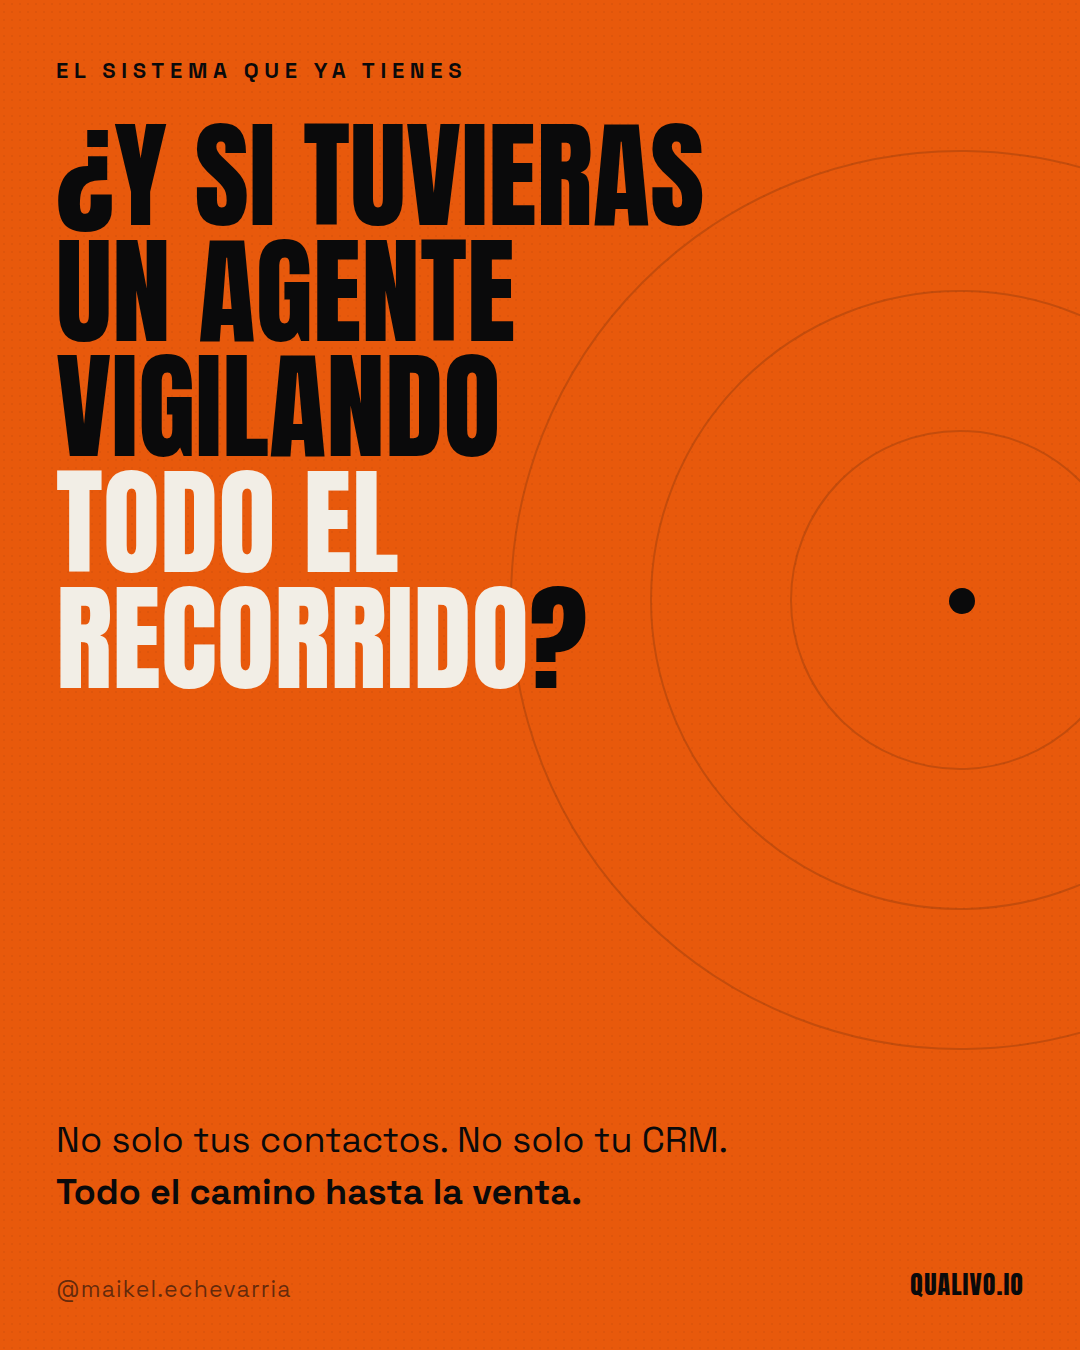
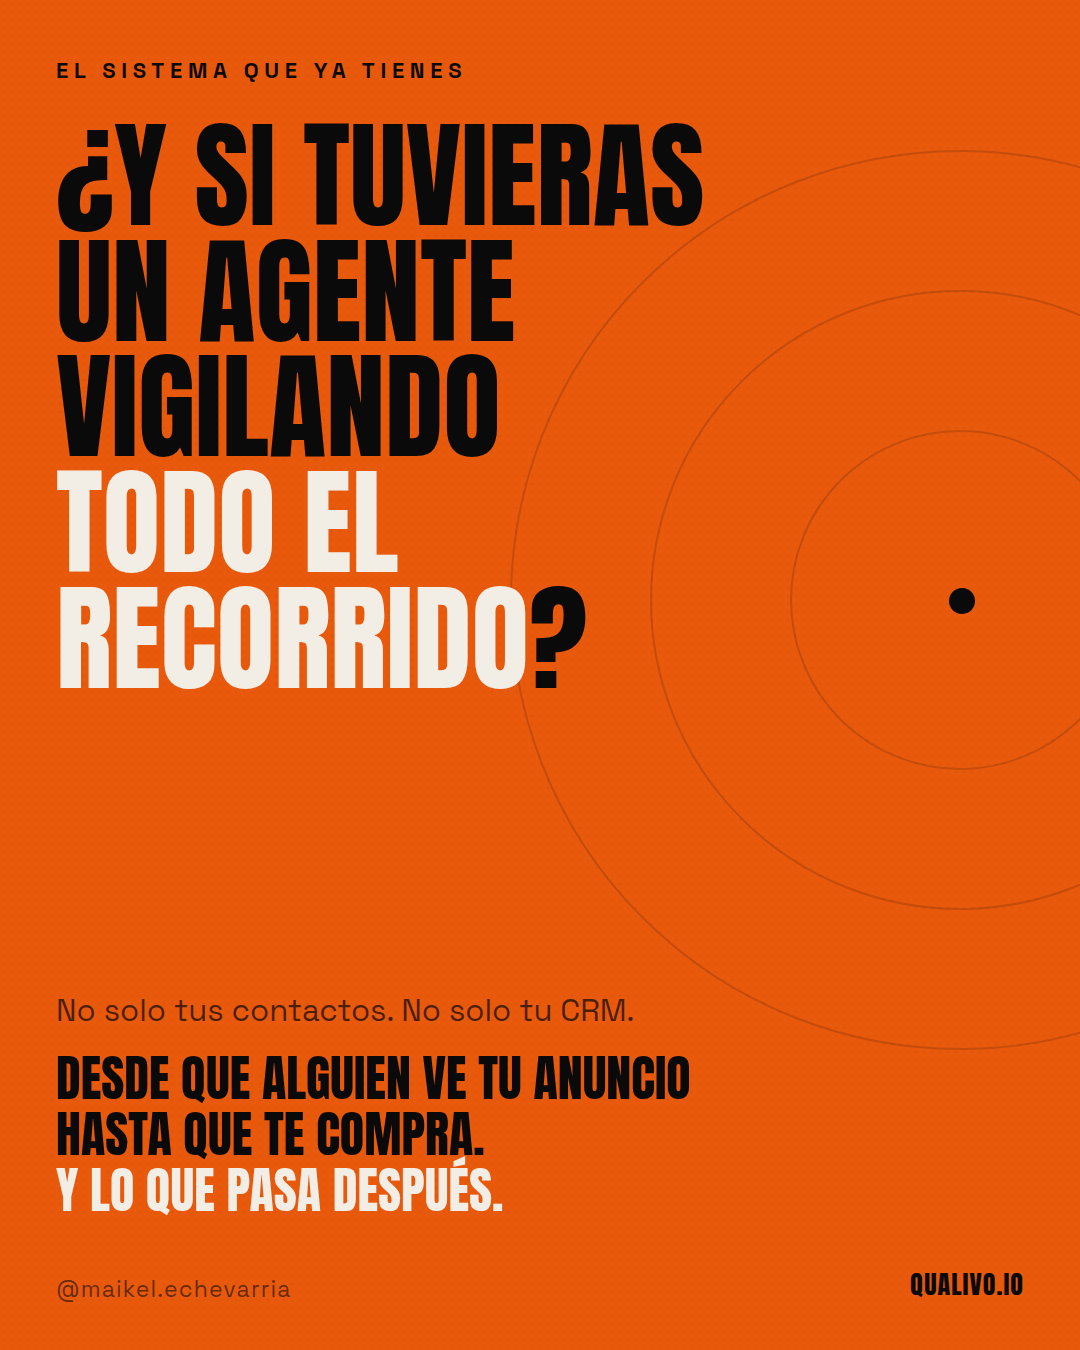
Dejar claro el alcance del recorrido en el carrusel del agente
La portada decia «todo el recorrido» sin decir de donde a donde. Ahora lo dice
con peso tipografico: desde que alguien ve tu anuncio hasta que te compra, y lo
que pasa despues.

La segunda lamina pasa a numerar los ocho puntos del 01 al 08. Con dos columnas
las flechas mentian, porque la de debajo de «cualificacion» apuntaba hacia abajo
cuando el paso siguiente estaba en la columna de al lado.

Claude-Session: https://claude.ai/code/session_01GcrdLXcbaEyggvw8NbrHLL

Changed region(s): [[0.0306, 0.7156, 0.6722, 0.9022]]

diff --git a/content/carruseles/2026-09-14-agente/laminas.html b/content/carruseles/2026-09-14-agente/laminas.html
@@ -30,7 +30,8 @@ body{background:#3a3a3a;padding:40px}
 .tinta .firma{color:rgba(242,238,230,.55)} .crema .firma{color:rgba(10,10,11,.55)}
 .web{position:absolute;bottom:46px;right:56px;font-family:Anton;font-size:26px;letter-spacing:.04em;color:#E8590C}
 .flujo{margin:auto 0;display:flex;flex-direction:column;gap:0}
-.paso{font-family:Anton;font-size:50px;text-transform:uppercase;line-height:1;padding:13px 0}
+.paso{font-family:Anton;font-size:50px;text-transform:uppercase;line-height:1;padding:15px 0}
+.paso i{font-style:normal;color:#E8590C;font-size:27px;vertical-align:super;margin-right:12px}
 .fl{color:#E8590C;font-size:30px;line-height:1;padding-left:4px}
 .preg{font-size:33px;line-height:1.5;margin:auto 0;padding-left:30px;border-left:3px solid #E8590C}
 .tinta .preg{color:rgba(242,238,230,.8)}.crema .preg{color:rgba(10,10,11,.75)}
@@ -63,7 +64,10 @@ body{background:#3a3a3a;padding:40px}
   <div class="in">
     <div class="kick" style="color:#0A0A0B">El sistema que ya tienes</div>
     <div class="tit" style="font-size:118px;margin-top:34px">¿Y si tuvieras<br>un agente<br>vigilando<br><span style="color:#F2EEE6">todo el<br>recorrido</span>?</div>
-    <div class="sub" style="margin-top:auto;font-size:36px;color:#0A0A0B">No solo tus contactos. No solo tu CRM.<br><b style="color:#0A0A0B">Todo el camino hasta la venta.</b></div>
+    <div style="margin-top:auto">
+      <div style="font-size:31px;line-height:1.4;color:rgba(10,10,11,.72)">No solo tus contactos. No solo tu CRM.</div>
+      <div style="font-family:Anton;font-size:50px;line-height:1.12;text-transform:uppercase;margin-top:18px;color:#0A0A0B">Desde que alguien ve tu anuncio<br>hasta que te compra.<br><span style="color:#F2EEE6">Y lo que pasa después.</span></div>
+    </div>
   </div>
   <div class="firma" style="color:rgba(10,10,11,.6)">@maikel.echevarria</div>
   <div class="web" style="color:#0A0A0B">QUALIVO.IO</div>
@@ -71,22 +75,22 @@ body{background:#3a3a3a;padding:40px}
 
 <div class="page crema"><div class="in">
   <div class="kick">El recorrido entero</div>
-  <div class="tit sm">En cada punto hay <span class="nar">una pregunta</span></div>
+  <div class="tit sm">Del anuncio<br>al cliente que <span class="nar">vuelve</span></div>
   <div class="dos" style="margin:auto 0">
     <div class="flujo" style="margin:0;flex:1">
-      <div class="paso">Adquisición</div><div class="fl">↓</div>
-      <div class="paso">Captación</div><div class="fl">↓</div>
-      <div class="paso">Contacto</div><div class="fl">↓</div>
-      <div class="paso">Cualificación</div>
+      <div class="paso"><i>01</i>Adquisición</div>
+      <div class="paso"><i>02</i>Captación</div>
+      <div class="paso"><i>03</i>Contacto</div>
+      <div class="paso"><i>04</i>Cualificación</div>
     </div>
     <div class="flujo" style="margin:0;flex:1">
-      <div class="paso">Seguimiento</div><div class="fl">↓</div>
-      <div class="paso">Presupuesto</div><div class="fl">↓</div>
-      <div class="paso">Venta</div><div class="fl">↓</div>
-      <div class="paso">Reactivación</div>
+      <div class="paso"><i>05</i>Seguimiento</div>
+      <div class="paso"><i>06</i>Presupuesto</div>
+      <div class="paso"><i>07</i>Venta</div>
+      <div class="paso"><i>08</i>Reactivación</div>
     </div>
   </div>
-  <div class="pie"><b>¿Qué está pasando aquí ahora mismo?</b></div>
+  <div class="pie">En cada uno de estos ocho puntos hay una pregunta sin contestar: <b>¿qué está pasando aquí ahora mismo?</b></div>
 </div><div class="firma">@maikel.echevarria</div><div class="web">QUALIVO.IO</div></div>
 
 <div class="page tinta"><div class="radar" style="width:1000px;height:1000px;left:-420px;bottom:-300px"></div><div class="radar" style="width:700px;height:700px;left:-270px;bottom:-150px"></div><div class="in">
